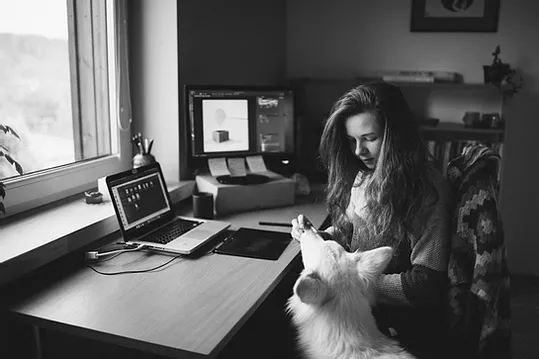
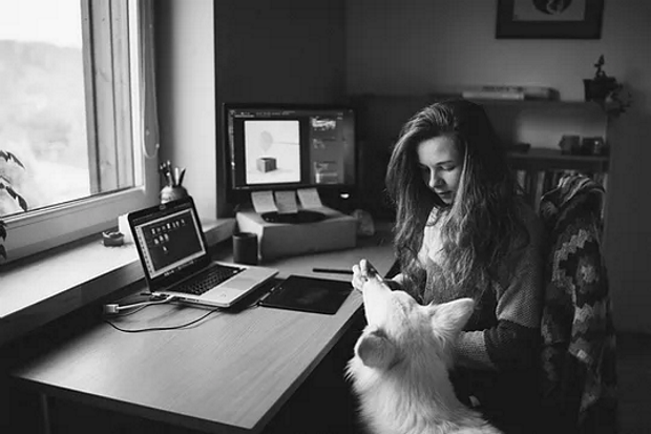
container width, margin update; new inner page #21

diff --git a/chernobyl-lessons-to-europe.html b/chernobyl-lessons-to-europe.html
@@ -6,7 +6,7 @@
     <meta
       name="viewport"
       content="width=device-width, initial-scale=1.0, minimum-scale=1.0"/>
-    <title>Vilnius University Šiauliai Academy | Skaiste Miciulyte</title>
+    <title>Chernobyl's Lessons To Europe | Skaiste Miciulyte</title>
     <link rel="stylesheet" href="./css/home.css" />
   </head>
 
@@ -39,17 +39,11 @@
     <!-- HERO START -->
     <div class="container inner-pages-container">
       <div class="row about-hero">
-        <div class="title col-12"><p>VILNIUS UNIVERSITY ŠIAULIAI ACADEMY</p></div>
-        <div class="client col-12"><p>Client: Agency 1323</p></div>
-        <div class="about col-12"><p>Advertising campaign on admission process for Vilnius University Šiauliai Academy.</p></div>
+        <div class="title col-12"><p>CHERNOBYL'S LESSONS TO EUROPE</p></div>
+        <div class="client col-12"><p>Client: European Movement Lithuania</p></div>
         <div class="col-12">
-          <img src="./img/content/VU_Siauliu Akademija_Admission process_1.webp" alt="Vilnius University Siauliai Academy">
+          <img src="./img/content/EuropeanMovementLithuania_ChernobylsLessonsToEurope.webp" alt="Chernobyl's Lessons To Europe">
         </div>
-        <div class="col-12 about-photo"><p>Vilnius University Šiauliai Academy</p></div>
-        <div class="col-12">
-          <img src="./img/content/VU_Siauliu_Akademija_Admission_process_2.webp" alt="Vilnius University Siauliai Academy">
-        </div>
-        <div class="col-12 about-photo"><p>Unused illustration.</p></div>
       </div>
     </div>
     <div class="container-fluid hero inner-pages-hero">

diff --git a/js/components/hero.js b/js/components/hero.js
@@ -1,24 +1,20 @@
 function heroImages(selector, data) {
 
-    const DOM = document.querySelector(selector)
-    const host = "https://mantasurb.github.io/16-skaistemiciulyte.com/";
-
+    const DOM = document.querySelector(selector);
     let HTML = "";
-    if (window.location.href == host
-        ||
-        window.location.href == host + 'index.html' 
-        ||
-        window.location.href == host + 'vilnius-university-siauliai-academy.html') {
-        for (let i = 0; i < data.length; i++) {
-        const info = data[i];
-        HTML += `<div class="col-4 col-xl-6 col-sm-12 image">
-                    <a href="${info.link + '.html'}"><img src="${info.path}" alt="${info.title}"/></a>
-                </div>`;
-        }
-        DOM.innerHTML += HTML;
-    } else {
-        return;
+
+    if (!DOM) {
+        console.error('ERROR HERO IMAGES: content render place is not valid/incorrect');
+        return false;
     }
+
+    for (let i = 0; i < data.length; i++) {
+    const info = data[i];
+    HTML += `<div class="col-4 col-xl-6 col-sm-12 image">
+                <a href="${info.link + '.html'}"><img src="${info.path}" alt="${info.title}"/></a>
+            </div>`;
+            }
+    DOM.innerHTML += HTML;
 }
 
 export { heroImages };

diff --git a/css/components/about-hero.css b/css/components/about-hero.css
@@ -2,7 +2,7 @@
   width: 100%;
   display: flex;
   margin: 110px 0px 60px 0px;
-  padding: 0px 310px 0px 0px;
+  padding: 0px 455px 0px 0px;
   justify-content: center;
   align-items: baseline;
   list-style-type: none;
@@ -16,7 +16,7 @@
   text-align: justify;
 }
 .container {
-  grid-template-columns: 1fr 850px 1fr;
+  grid-template-columns: 1fr 1000px 1fr;
   padding: 10px 0px;
 }
 .container > .row {
@@ -58,6 +58,9 @@
 }
 .about-hero > .third-section > p {
   padding: 0px 0px 30px 0px;
+}
+.third-section {
+  margin: 0px 0px 100px 0px ;
 }
 .third-section a {
   color: #555555;

diff --git a/js/components/socials.js b/js/components/socials.js
@@ -1,7 +1,7 @@
 function socials(selector, data) {
     const DOM = document.querySelector(selector);       // null
     if (!DOM) {
-        console.error('ERROR: nerasta norima vieta');
+        console.error('ERROR SOCIALS: content render place is not valid/incorrect');
         return false;
     }
 
@@ -11,7 +11,6 @@ function socials(selector, data) {
         const { href, icon } = social;
         HTML += `<a href="${href}" target="_blank"><i class="fa fa-${icon} icon"></i></a>`;
     }
-    
     DOM.innerHTML = HTML;
 }
 

diff --git a/css/components/inner-pages.css b/css/components/inner-pages.css
@@ -11,15 +11,23 @@
     padding: 0px;
 }
 .inner-pages-hero {
-    margin: 25px 0px 0px 0px;
+    margin: 130px 0px 0px 0px;
 }
 @media (max-width: 750px) {
     .inner-pages-container p {
         padding: 0px 0px 15px 0px;
     }
 }
+@media (max-width: 625px) {
+    .inner-pages-hero {
+        margin: 100px 0px 0px 0px;
+    }
+}
 @media (max-width: 435px) {
     .title > p {
         font-size: 16px;
+    }
+    .inner-pages-hero {
+        margin: 70px 0px 0px 0px;
     }
 }
